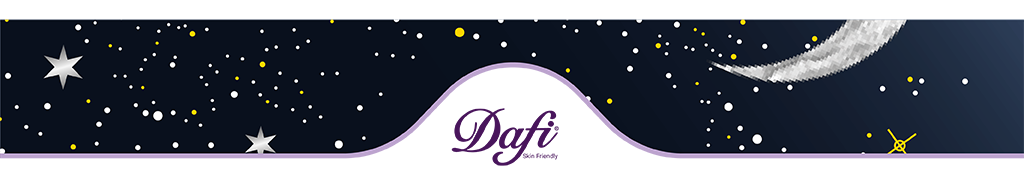
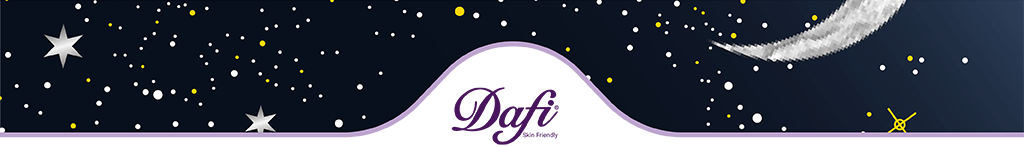
question 5

diff --git a/pages/question/five/index.vue b/pages/question/five/index.vue
@@ -79,16 +79,16 @@ export default {
     <center>
       <img
         src="~/assets/images/question-5/question.png"
-        :width="ratio * 728"
-        :height="ratio * 96"
+        :width="ratio * 610"
+        :height="ratio * 104"
       >
     </center>
     <div v-html="spacer(150)"></div>
     <center>
       <img
         src="~/assets/images/question-5/answer-1.png"
-        :width="ratio * 273"
-        :height="ratio * 123"
+        :width="ratio * 272"
+        :height="ratio * 121"
         @click="goNext(0)"
       >
     </center>
@@ -96,8 +96,8 @@ export default {
     <center>
       <img
         src="~/assets/images/question-5/answer-2.png"
-        :width="ratio * 273"
-        :height="ratio * 123"
+        :width="ratio * 272"
+        :height="ratio * 121"
         @click="goNext(1)"
       >
     </center>
